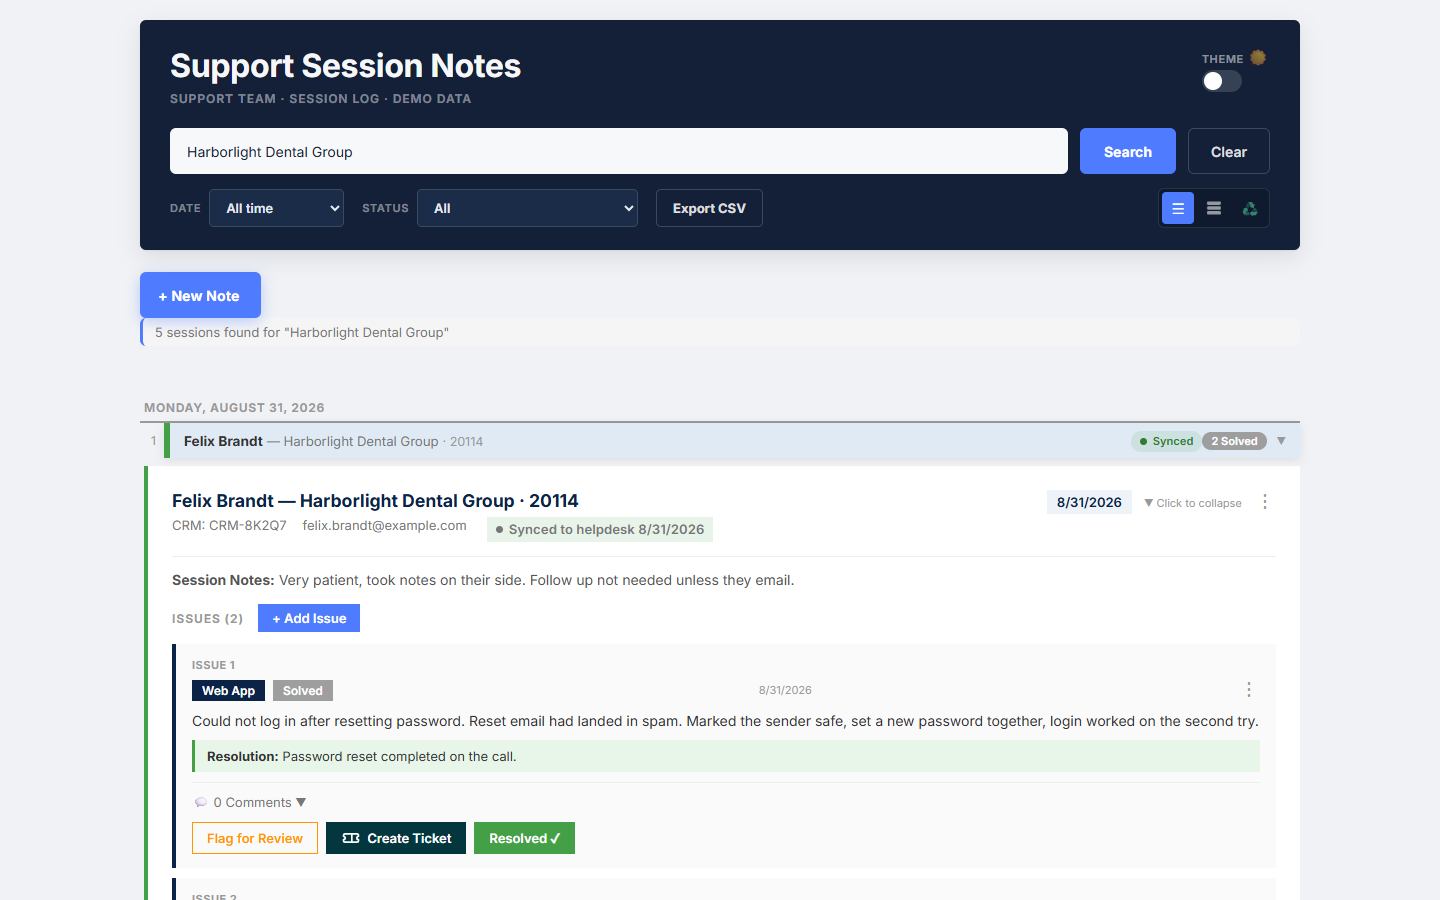
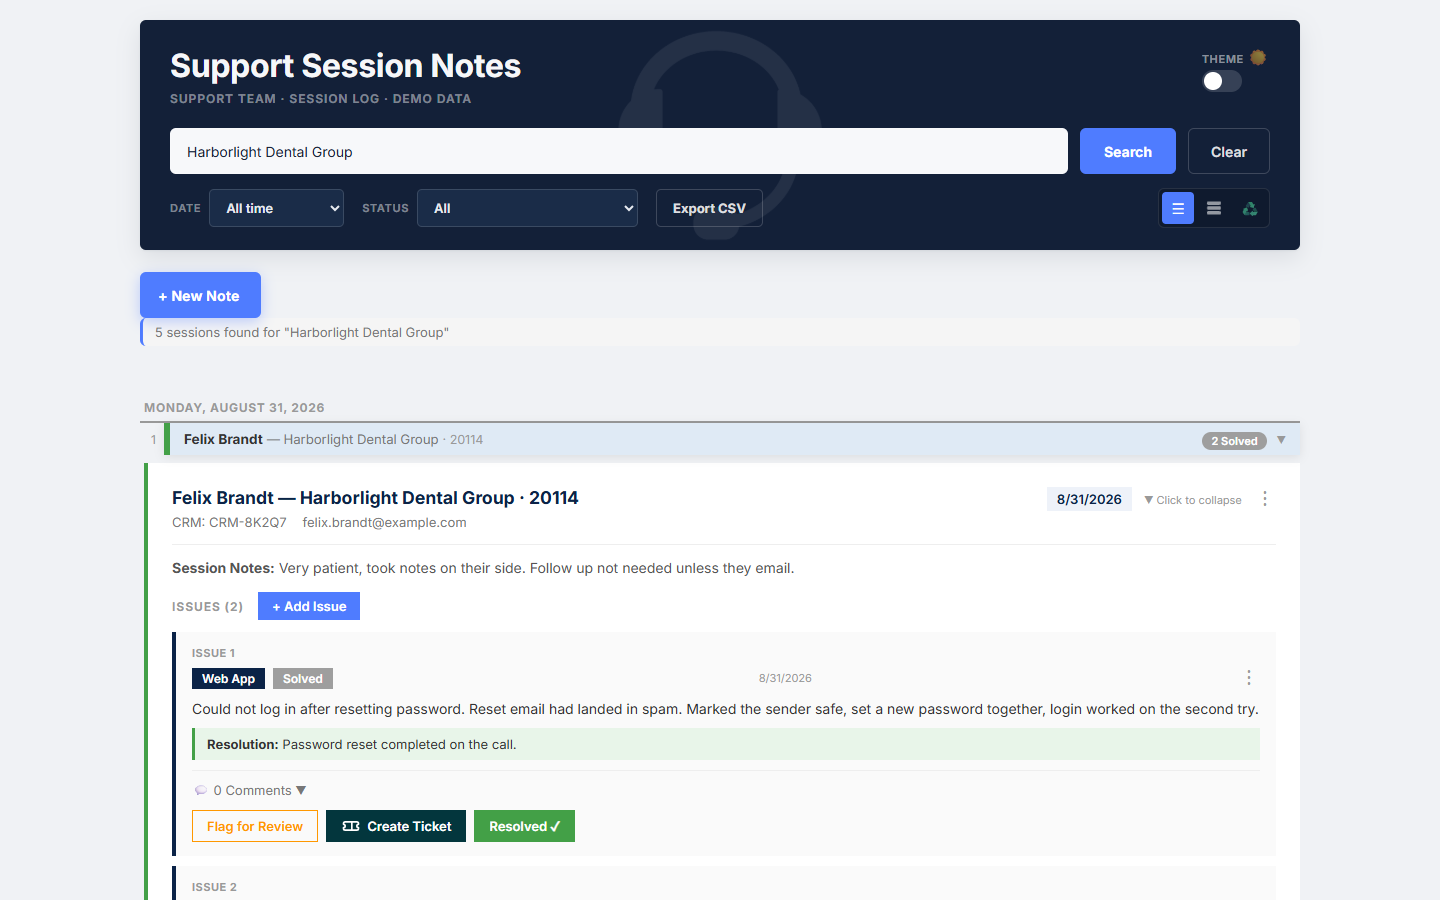
Restore header watermark, remove sync status pills
The headset watermark is original artwork. The sync-status badges were not part of the original app, so the UI now matches it; sync state stays available through the API.

diff --git a/scripts/demo-gif.js b/scripts/demo-gif.js
@@ -60,7 +60,7 @@ async function walkthrough(page) {
   await page.waitForSelector('.search-indicator');
   await pause(page, 2200);
 
-  // 2. Expand a session: issues, statuses, helpdesk sync badge
+  // 2. Expand a session: issues, statuses, resolutions
   await page.locator('.list-row').first().click();
   await page.waitForSelector('.list-row-expanded .session-card');
   await pause(page, 2800);
@@ -93,18 +93,14 @@ async function walkthrough(page) {
   await typeInto(page.locator('.session-form .field:not(.field-dimmed) textarea.auto-expand').nth(1), 'Viewer role created; invitations sent.', 8, 160);
   await pause(page, 1500);
 
-  // 5. Save: the note appears at the top, first pending, then synced to the helpdesk
+  // 5. Save: the note lands in today's group (it syncs to the helpdesk in the background)
   await page.click('.session-form .submit-btn:not(.submit-btn--zendesk)');
   await page.waitForSelector('.list-row:has-text("Aisha Rahman")');
   await page.evaluate(() => window.scrollTo(0, 0));
-  await pause(page, 2600);
-  await page.click('.search-bar button:has-text("Clear")'); // refetch: the sync has landed by now
-  // Seeded sessions later today can sort above the new note, so look for its row anywhere on the page.
-  await page.waitForFunction(() => [...document.querySelectorAll('.list-row')]
-    .some(r => r.textContent.includes('Aisha Rahman') && r.textContent.includes('Synced')), { timeout: 15000 });
-  await pause(page, 2600);
+  await pause(page, 3000);
 
-  // 6. Open the note and start a helpdesk ticket from it
+  // 6. Open the note and start a helpdesk ticket from it. Seeded sessions later today can
+  // sort above the new note, so find its row by name rather than by position.
   await page.locator('.list-row:has-text("Aisha Rahman")').first().click();
   await page.waitForSelector('.list-row-expanded .session-card');
   await pause(page, 2000);

diff --git a/src/App.css b/src/App.css
@@ -94,7 +94,17 @@ body.dark { background-color: #0d0d0f; }
   box-shadow: 0 1px 2px rgba(20,30,50,0.06), 0 8px 24px rgba(20,30,50,0.10);
 }
 
-.App-header > * { position: relative; }
+.header-watermark {
+  position: absolute;
+  top: 50%;
+  left: 50%;
+  transform: translate(-50%, -50%);
+  width: 280px;
+  opacity: 0.07;
+  pointer-events: none;
+}
+
+.App-header > *:not(.header-watermark) { position: relative; }
 
 .App-header h1 {
   font-size: 32px;
@@ -1119,17 +1129,3 @@ body.dark .field input[type="date"]::-webkit-calendar-picker-indicator { filter:
   }
 }
 
-/* HELPDESK SYNC STATUS */
-.sync-badge {
-  display: inline-flex; align-items: center; gap: 6px;
-  font-size: 11px; font-weight: 600; letter-spacing: 0.01em;
-  padding: 2px 9px; border-radius: 10px; white-space: nowrap; line-height: 1.6;
-}
-.sync-badge::before { content: ''; width: 7px; height: 7px; border-radius: 50%; background: currentColor; flex-shrink: 0; }
-.sync-badge--synced  { color: #2e7d32; background: rgba(67,160,71,0.12); }
-.sync-badge--pending { color: #b26a00; background: rgba(255,152,0,0.16); }
-.sync-badge--error   { color: #c62828; background: rgba(229,57,53,0.12); }
-.App.dark .sync-badge--synced  { color: #81c784; background: rgba(67,160,71,0.18); }
-.App.dark .sync-badge--pending { color: #ffb74d; background: rgba(255,152,0,0.18); }
-.App.dark .sync-badge--error   { color: #ef9a9a; background: rgba(229,57,53,0.18); }
-.session-meta .sync-badge { margin-left: 4px; }

diff --git a/src/components/ListRow.js b/src/components/ListRow.js
@@ -1,7 +1,6 @@
 import React, { useRef, useEffect } from 'react';
 import { STATUS_COLORS } from '../constants';
 import { SessionCard } from './SessionCard';
-import { SyncBadge } from './SyncBadge';
 
 export function ListRow({ session, expandedListId, setExpandedListId, rowNumber, ...props }) {
   const expanded = expandedListId === session.id;
@@ -35,7 +34,6 @@ export function ListRow({ session, expandedListId, setExpandedListId, rowNumber,
           </div>
           <div className="list-row-right">
             <div className="summary-chips">
-              <SyncBadge session={session} compact />
               {Object.entries(
                 (session.issues || []).reduce((acc, i) => { acc[i.status] = (acc[i.status] || 0) + 1; return acc; }, {})
               ).map(([status, count]) => (

diff --git a/src/components/SessionCard.js b/src/components/SessionCard.js
@@ -7,7 +7,6 @@ import { KebabMenu } from './KebabMenu';
 import { OrgLookup } from './OrgLookup';
 import { UserLookup } from './UserLookup';
 import { ZendeskModal } from './ZendeskModal';
-import { SyncBadge } from './SyncBadge';
 
 const toEditData = s => ({
   customer_name: s.customer_name,
@@ -264,7 +263,6 @@ export function SessionCard({ session, onRefresh, onViewScreenshot, showToast, s
           <div className="session-meta">
             {session.crm_org_id && <span>CRM: {session.crm_org_id}</span>}
             {session.customer_email && <span>{session.customer_email}</span>}
-            <SyncBadge session={session} />
           </div>
           {collapsed && (
             <div className="session-summary">

diff --git a/src/App.js b/src/App.js
@@ -356,6 +356,7 @@ export default function App() {
     <ConfigContext.Provider value={config}>
     <div className={`App${darkMode ? ' dark' : ''}`}>
       <header className="App-header">
+        <img className="header-watermark" src={`${process.env.PUBLIC_URL}/headset-watermark.png`} alt="" aria-hidden="true" />
         <div className="header-title-row">
           <div>
             <h1>Support Session Notes</h1>

diff --git a/src/config.js b/src/config.js
@@ -1,7 +1,7 @@
 import { createContext } from 'react';
 
 // Runtime settings the API exposes at GET /api/config. App fetches them once on
-// load and provides them here so deep components (ticket links, sync badges) can
+// load and provides them here so deep components (for example ticket links) can
 // read them without prop drilling.
 export const defaultConfig = {
   mock_integrations: true,

diff --git a/README.md b/README.md
@@ -8,17 +8,17 @@ An internal tool for support agents to take structured notes during live custome
 | --- | --- |
 | ![Notes editor](docs/screenshots/notes-editor.png) | ![Lookup](docs/screenshots/lookup.png) |
 
-| Session history with helpdesk sync status |
+| Session history for one organization |
 | --- |
 | ![Session history](docs/screenshots/session-history.png) |
 
-The GIF is a scripted walkthrough recorded by [scripts/demo-gif.js](scripts/demo-gif.js) against the seeded app: one organization's session history, a new note with the contact picked from the directory, an issue logged and resolved, the note syncing to the helpdesk, and the create-ticket dialog.
+The GIF is a scripted walkthrough recorded by [scripts/demo-gif.js](scripts/demo-gif.js) against the seeded app: one organization's session history, a new note with the contact picked from the directory, an issue logged and resolved, the note saved, and the create-ticket dialog.
 
 ## What it does
 
 - **Session notes editor.** One note per call. The agent picks the customer, the app fills in their organization, account number and CRM id from the directory, and the agent logs one or more issues: product area, description, order numbers, tags, screenshots (paste or drag in), status, and resolution. Ctrl+S saves. Unsaved changes are protected on navigation.
 - **Organization and contact directory.** Typeahead fields search a directory of organizations and their people. Picking a contact fills the rest of the header. Every saved note adds new organizations and contacts to the directory, and a conflicting entry (same account number, different name) comes back as a warning instead of a silent overwrite.
-- **Helpdesk sync.** Every save queues a sync that writes the note to a custom object record in the helpdesk (Zendesk), keyed by the note's UUID so re-syncs update rather than duplicate. A nightly reconciliation catches anything that failed, and each note shows Synced, Sync pending, or Sync failed. Agents can also create a helpdesk ticket from one or more issues in two clicks; a poller closes the issue here when the ticket is solved there.
+- **Helpdesk sync.** Every save queues a sync that writes the note to a custom object record in the helpdesk (Zendesk), keyed by the note's UUID so re-syncs update rather than duplicate. A nightly reconciliation catches anything that failed, and `GET /api/zendesk-sync/status` lists pending and failed notes. Agents can also create a helpdesk ticket from one or more issues in two clicks; a poller closes the issue here when the ticket is solved there.
 - **Session history.** Every past session, grouped by day, searchable by customer, organization, account number, email, order number, note text, or date. Filter by status or date range, switch between list and card views, export to CSV.
 - **Issue tracking.** Issues move through Pending, Flagged for Review, Escalated and Solved. Escalation opens a pre-filled email to the chosen team and records who it went to. Each issue has a comment thread attributed to a team.
 - **Also included.** Recycle bin with a 10 day purge, nightly CSV and database backups, a manageable list of product areas, dark mode, and deep links to a single session.
@@ -86,10 +86,10 @@ What the scripts do:
 `docs/demo.gif` is about 40 seconds long and follows this path, which also works as a script for a live demo:
 
 1. Type an organization name in the search bar (for example `Maple Ridge`) and press Search to show that organization's history.
-2. Expand a session to show its issues, statuses and the helpdesk sync badge.
+2. Expand a session to show its issues, statuses and resolutions.
 3. Click **+ New Note**, start typing a customer name, and pick one from the dropdown. The organization, account number and email fill in.
 4. Add an issue: choose a product area, type a short description, mark it Resolved with a resolution note.
-5. Click **Save Note**. The new session appears at the top with **Helpdesk sync pending**, then flips to **Synced** on the next refresh.
+5. Click **Save Note**. The new session appears in today's group and syncs to the helpdesk in the background.
 6. Open the session's menu and choose **Create Zendesk Ticket** to show the ticket dialog, or **Sync to helpdesk** to force a sync.
 
 `npm run demo-gif` replays exactly this path with a headless browser and re-encodes the GIF. Re-seed first, since the walkthrough saves a note.
@@ -116,7 +116,7 @@ src/
     zendesk/             real.js (OAuth client credentials), mock.js (in-memory helpdesk)
     fixtures/            zendesk.json: fictional organizations, contacts and tickets
   App.js                 Root component: header, search, filters, new-note form, session list
-  components/            SessionCard, IssueCard, IssueForm, Lookup, ZendeskModal, SyncBadge, RecycleBin, ...
+  components/            SessionCard, IssueCard, IssueForm, Lookup, ZendeskModal, RecycleBin, ...
   config.js              Runtime config context (ticket URL base, mock flag) from GET /api/config
   constants.js, utils.js Shared values, date helpers, keyboard shortcuts
 data/                    app.db, orgs.csv, users.csv, screenshots/, backups/ (created by seed and the app, ignored by git)
